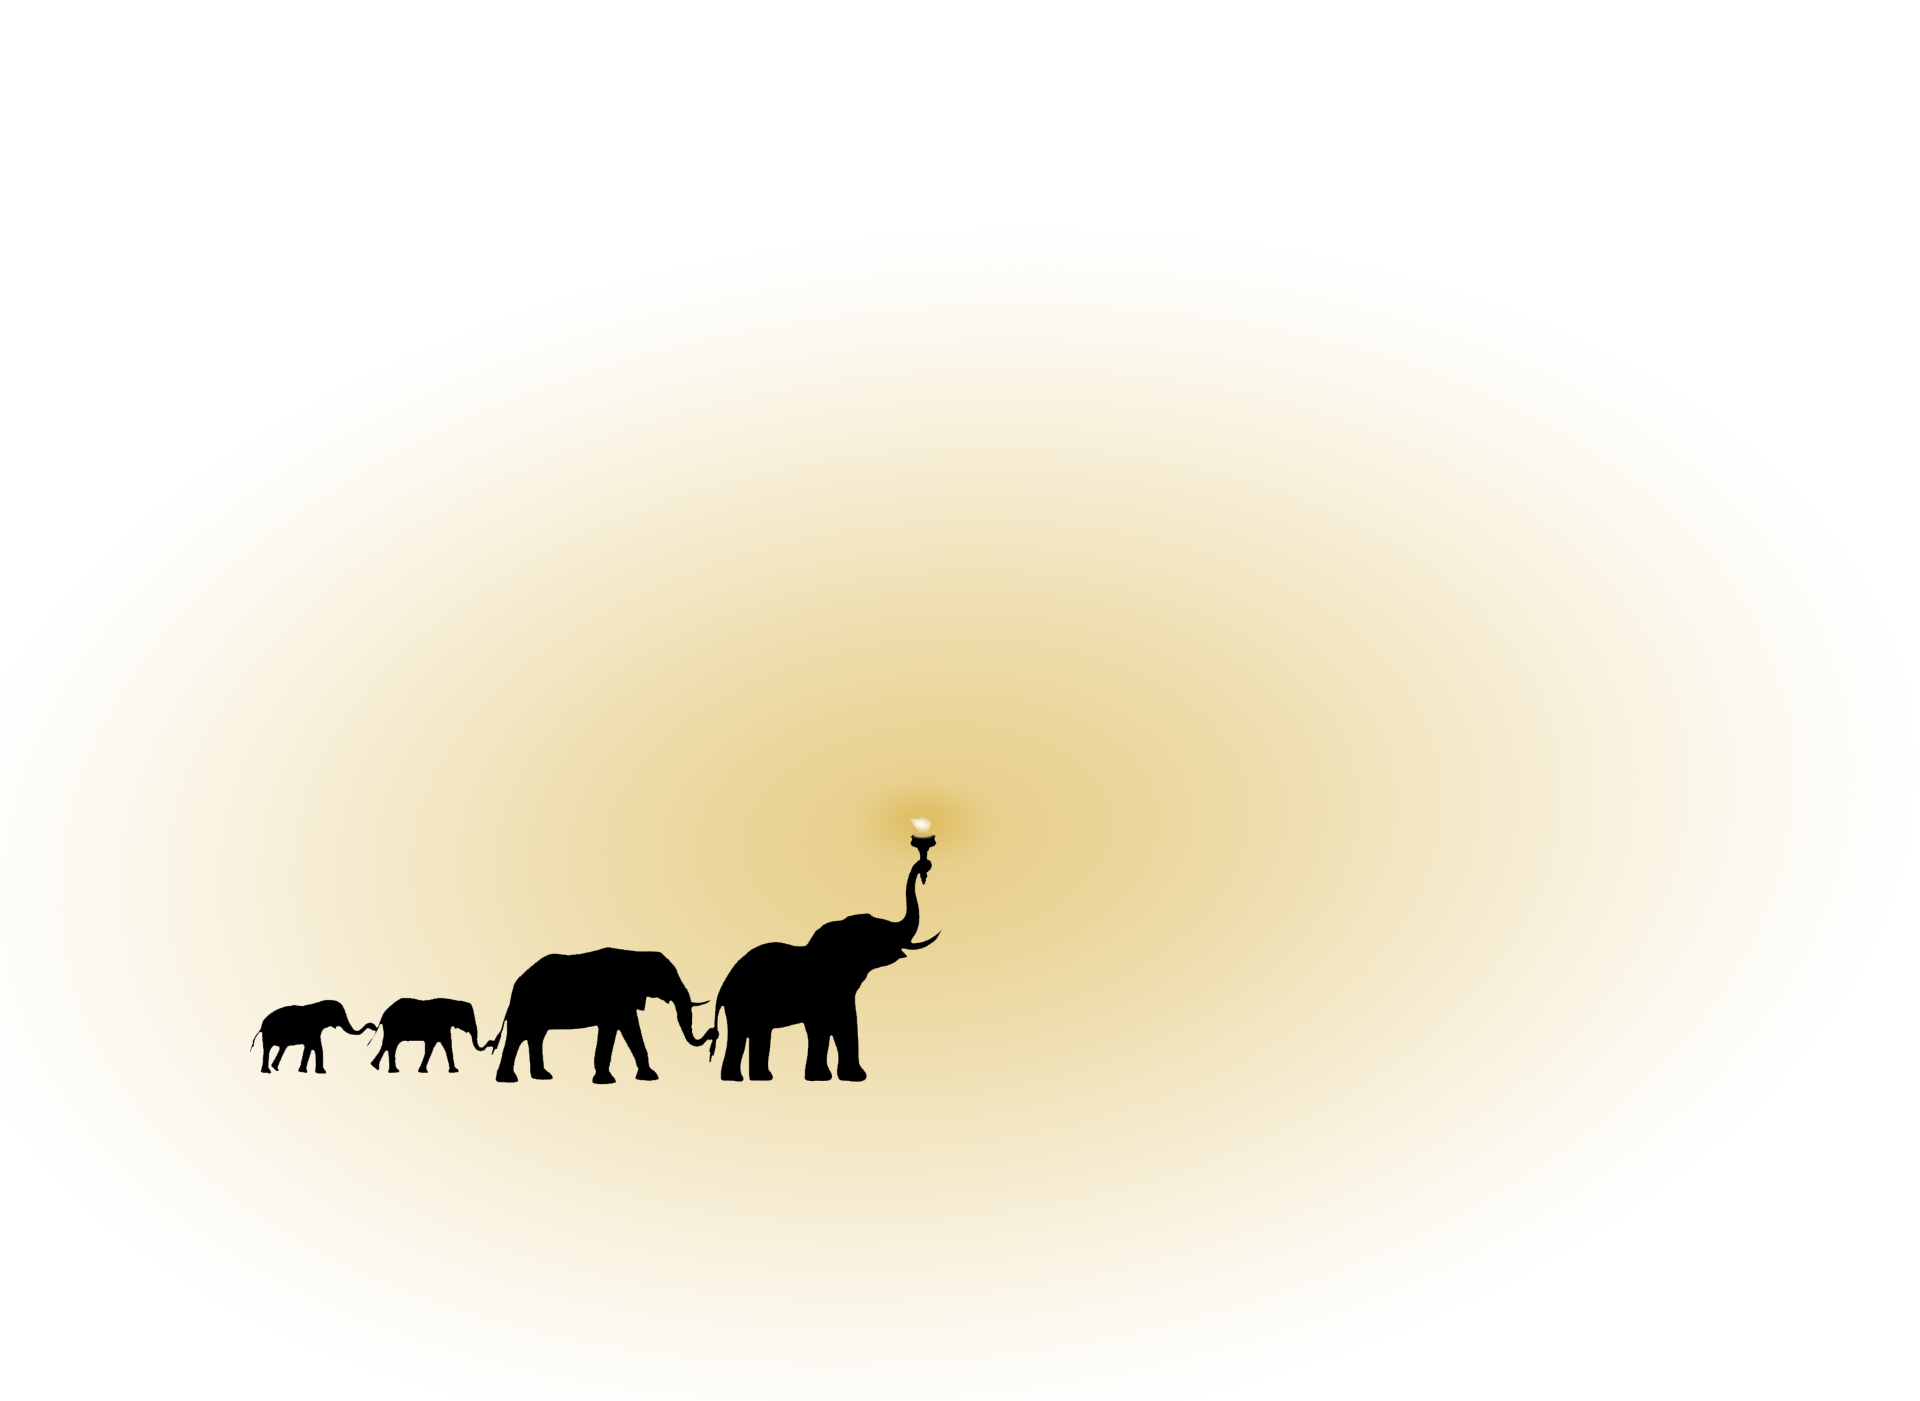
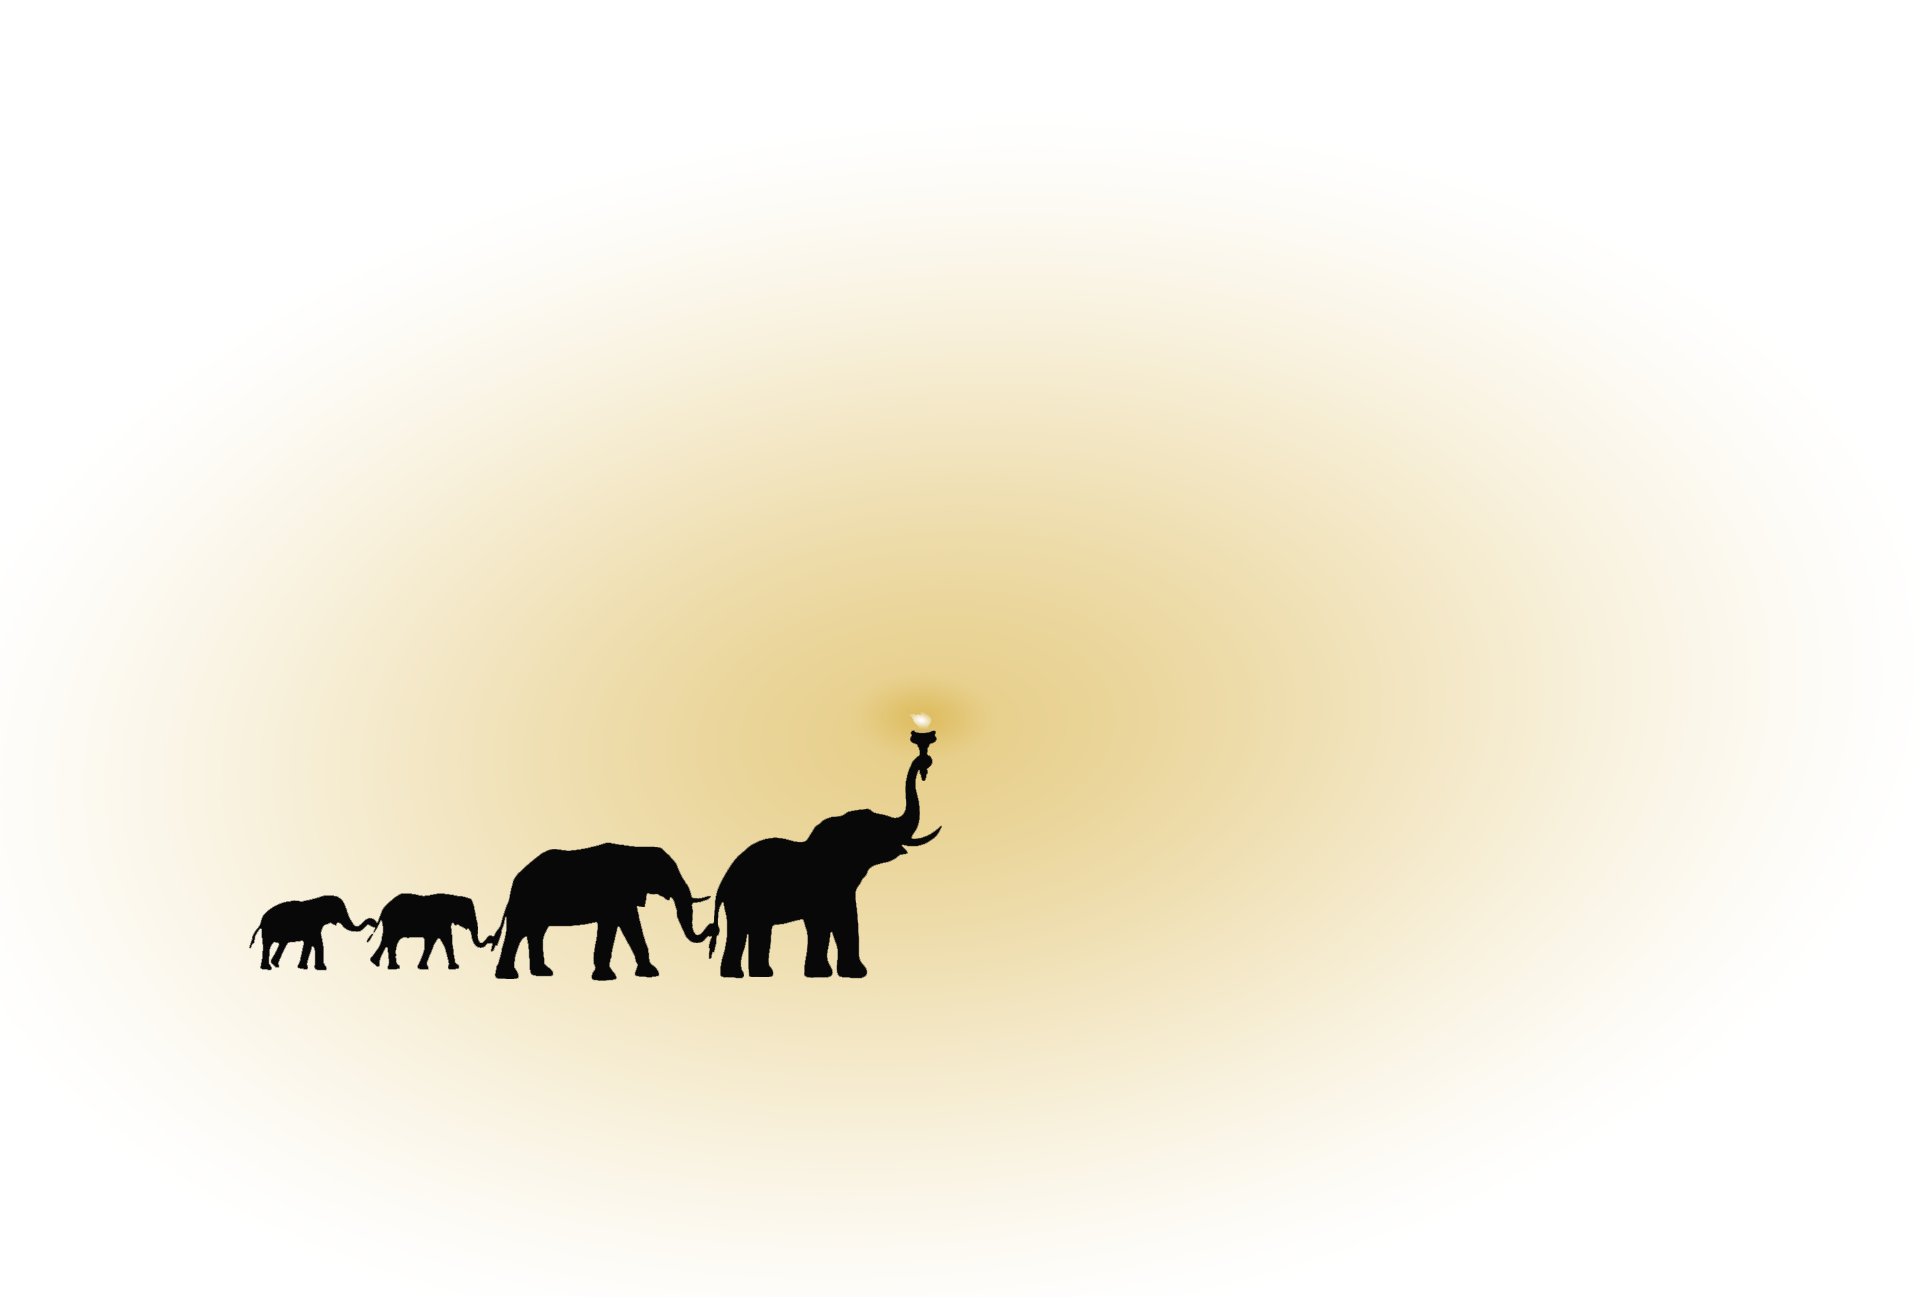
Changes

Changed region(s): [[0.125, 0.5243, 0.5, 0.771]]

diff --git a/src/components/certificate/ElephantFamily.tsx b/src/components/certificate/ElephantFamily.tsx
@@ -5,8 +5,8 @@ export default function ElephantFamily({ hash, width, height }: { hash: string; 
     <img
       src={elephantsImg}
       alt=""
-      className="absolute bottom-0 left-0 pointer-events-none opacity-50"
-      style={{ width: '70%', marginBottom: '-50px' }}
+      className="absolute bottom-0 left-1/2 -translate-x-1/2 pointer-events-none opacity-50"
+      style={{ width: '70%', marginBottom: '-60px' }}
     />
   );
 }
